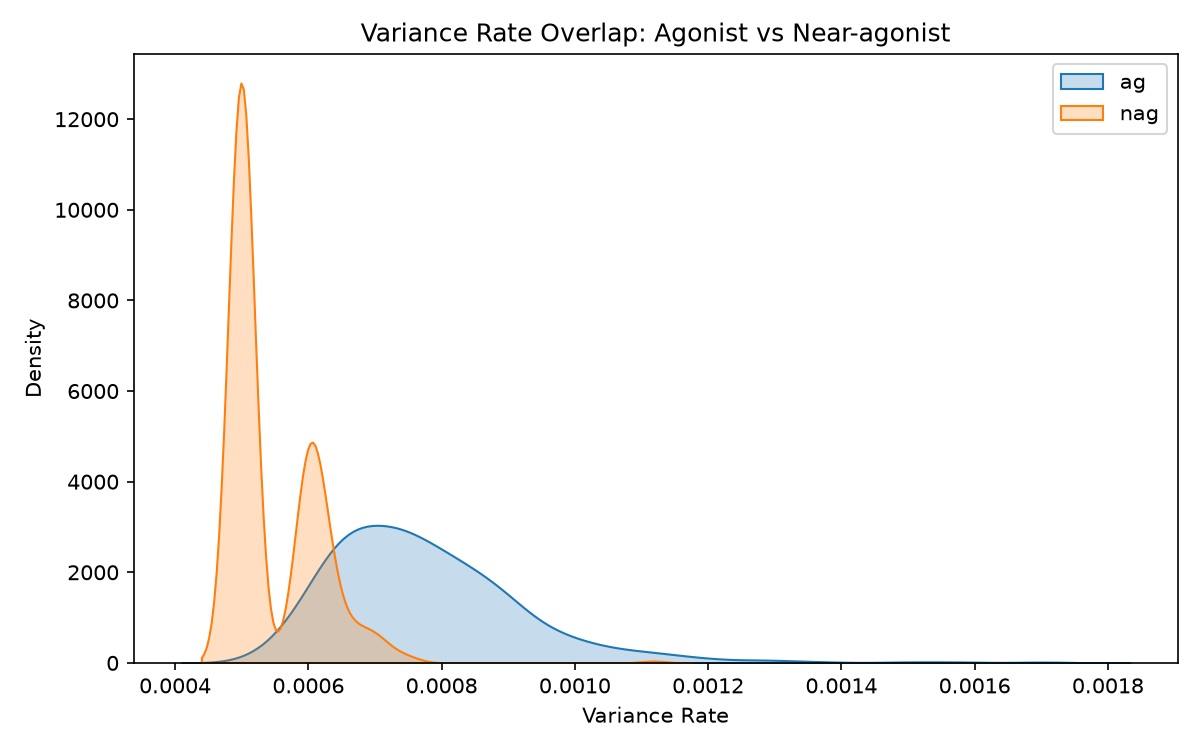
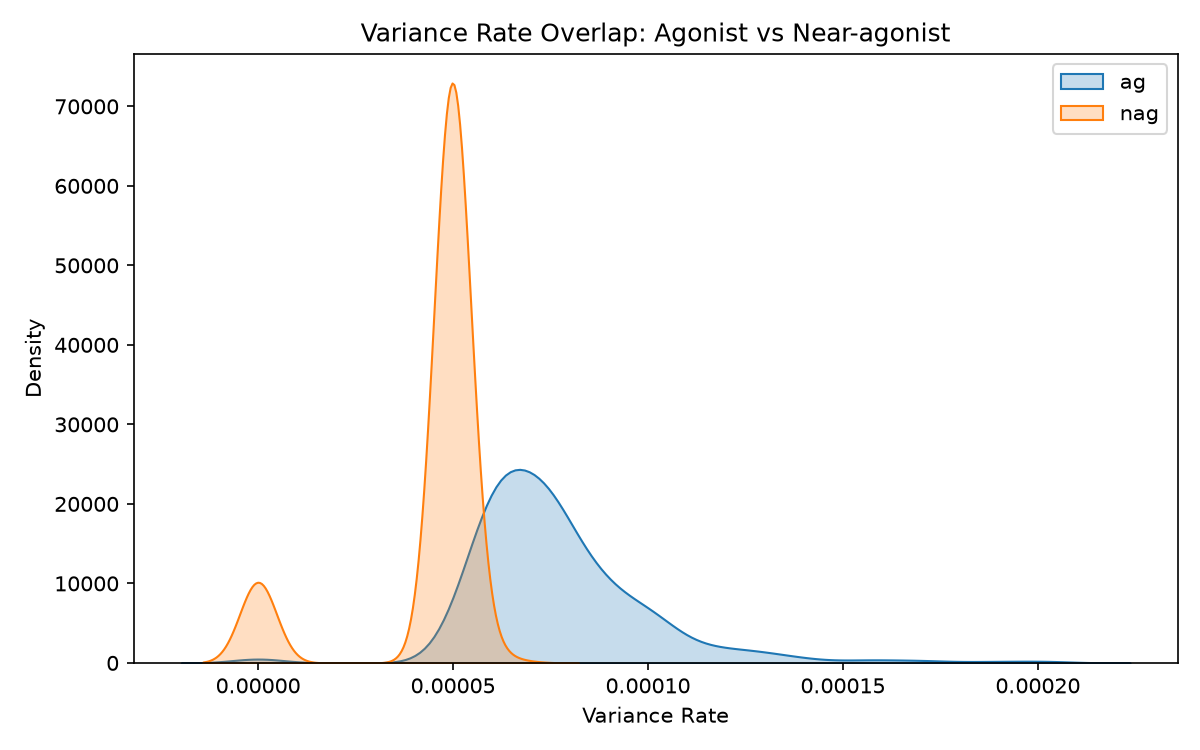
likelihood-v-2: T_contact=5000

diff --git a/src/contact_simulation.py b/src/contact_simulation.py
@@ -8,28 +8,30 @@ from scipy import stats as scipy_stats
 
 
 CLASS = ['ag', 'nag', 'bg']
+T = 5000
 
 # From Huang et al. 2010, Table 1, 37°C (2D kinetics)
 k_off = {'ag': 10.8, 'nag': 1.3, 'bg': 50.0}  # s^(-1)
 k_on  = {'ag': 1.2e-2, 'nag': 2.7e-5, 'bg': 1e-6}  # μm^4s^(-1)
 
-L_max = {'ag': 5, 'nag': 30, 'bg': 500} # treated as lambda for poisson sampling
+L_max = {'ag': 5, 'nag': 2, 'bg': 500} # treated as lambda for poisson sampling
 R_max_vals = [50]
 
-def compute_variance_rate(trajectory, T_contact=500):
+
+def compute_variance_rate(trajectory, T_contact=T):
     if len(trajectory) == 0:
         return 0.0
     _, B_values = zip(*trajectory)
     return np.var(np.array(B_values, dtype=float)) / T_contact
 
-
+event_counts = [len(gillespie_contact(k_off, k_on, 50, L_max, 'nag')) for _ in range(T)]
+print(np.unique(event_counts, return_counts=True))
 results = []
 n_sims = 500
 for R_max in R_max_vals:
     for t_type in CLASS:
         for _ in range(n_sims):
-            L = np.random.poisson(L_max[t_type])
-            B_trajecory = gillespie_contact(k_off, k_on, R_max, L_max, t_type)
+            B_trajecory = gillespie_contact(k_off, k_on, R_max, L_max, t_type, T)
             results.append((t_type, R_max, compute_variance_rate(B_trajecory)))
 
 df_results = pd.DataFrame(results, columns=['ligand_type', 'r_max', 'var_rate'])
@@ -50,7 +52,7 @@ fig_stats, ax_stats = plt.subplots(figsize=(8, 5))
 sns.boxplot(data=df_results, x='ligand_type', y='var_rate', ax=ax_stats, showfliers=False, boxprops=dict(alpha=0.3))
 sns.stripplot(data=df_results, x='ligand_type', y='var_rate', ax=ax_stats, size=2, alpha=0.4, jitter=True)
 
-ax_stats.set_title('Variance Rate: Boxplot + Individual Simulations (log scale)')
+ax_stats.set_title('Variance Rate: Boxplot + Individual Simulations')
 
 plt.tight_layout()
 

diff --git a/src/gillespie_contact.py b/src/gillespie_contact.py
@@ -2,7 +2,7 @@ import numpy as np
 
 def gillespie_contact(k_off: dict, k_on: dict, R_max, L_max, t_type, T_contact=500):
     B_trajectory = []
-    L = L_max[t_type]       # free pMHC ligands (TODO: Use poisson instead of one value)
+    L = np.random.poisson(L_max[t_type])     # free pMHC ligands
     R_I = R_max             # TCR inactive
     R_A = 0                 # TCR active
     B = 0                   # TCR-pMHC complex
